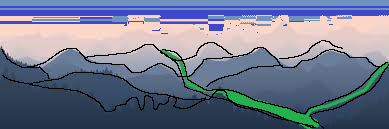
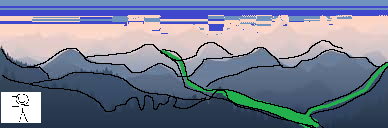
Updated the background image

diff --git a/styles/main.css b/styles/main.css
@@ -10,14 +10,14 @@ header {
 main {
     background-image: url(../images/background-image.jpg);
     background-repeat: no-repeat;
-    background-size: cover;
+    background-size: 100%;
     opacity: 0.9;
     transition-duration: 0.7;
 }
 main:hover {
     background-image: url(../images/background-image-edited.png);
     background-repeat: no-repeat;
-    background-size: cover;
+    background-size: 100%;
     box-shadow: 0 12px 16px 0 rgba(0,0,0,0.24), 0 17px 50px 0 rgba(0,0,0,0.19);
 }
 nav {
@@ -54,6 +54,13 @@ aside {
     width: 25%;
     height: 30%;
     background-color: white;
+    opacity: 1;
+    transition-duration: 0.9;
+}
+.page2UL:hover{
+    background-color:green;
+    box-shadow: 0 12px 16px 0 rgba(0,0,0,0.24), 0 17px 50px 0 rgba(0,0,0,0.19);
+    color: white;
 }
 #page2OLCat {
     color: red;

diff --git a/index.html b/index.html
@@ -33,6 +33,20 @@
             <footer class="flex-container">
                 <p>Made by Andrew Creswick</p>
             </footer>
+            <br>
+            <br>
+            <br>
+            <br>
+            <br>
+            <br>
+            <br>
+            <br>
+            <br>
+            <br>
+            <br>
+            <br>
+            <br>
+            <br>
         </main>
     </body>
 </html>
